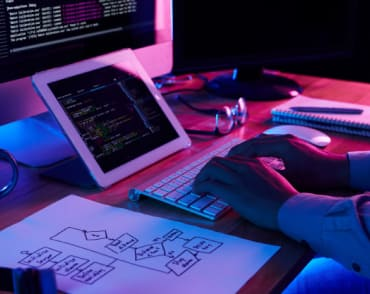
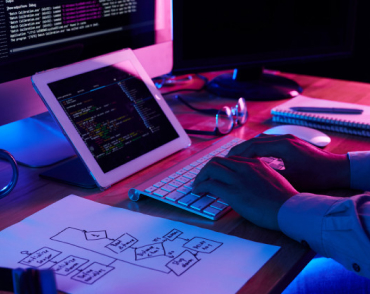
box-images added

diff --git a/index.html b/index.html
@@ -147,6 +147,10 @@
                   alt="Prezentacja przestrzeni roboczej. Osoba pisze na klawiaturze, przed nią znajduje się rysunek techniczny, tablet oraz laptop."
                   width="370"
                   height="294"
+                  srcset="./images/box1.jpg 1x,
+    ./images/box1@x2.jpg   2x,
+  "
+    
               /></a>
               <div class="workspace__overlay">
                 <p class="text workspace__paragraph">aplikacje komputerowe</p>
@@ -154,12 +158,17 @@
             </li>
             <li class="workspace__element">
               <a class="link worskspace__link" href="/"
-                ><img
+                >
+                
+                <img
                   class="workspace__image"
                   src="./images/box2.jpg"
                   alt="Prezentacja projektowania aplikacji mobinej. Projektant wyświetla na monitorze komputera trzy propozycje wyświetlania strony internetowej na smartphonie i porównuje je z tym co widzi na swoim telefonie."
                   width="370"
                   height="294"
+                  srcset="./images/box2.jpg 1x,
+    ./images/box2@x2.jpg   2x,
+  "
               /></a>
               <div class="workspace__overlay">
                 <p class="text workspace__paragraph">aplikacje mobilne</p>
@@ -173,6 +182,9 @@
                   alt="Prezentacja tworzenia wizualnego aspektu stron. Projektant trzyma w dłoni tablet, na którym wyświetla się paleta barw do wyboru w projekcie"
                   width="370"
                   height="294"
+                  srcset="./images/box3.jpg 1x,
+    ./images/box3@x2.jpg   2x,
+  "
               /></a>
               <div class="workspace__overlay">
                 <p class="text workspace__paragraph">rozwiązania graficzne</p>
